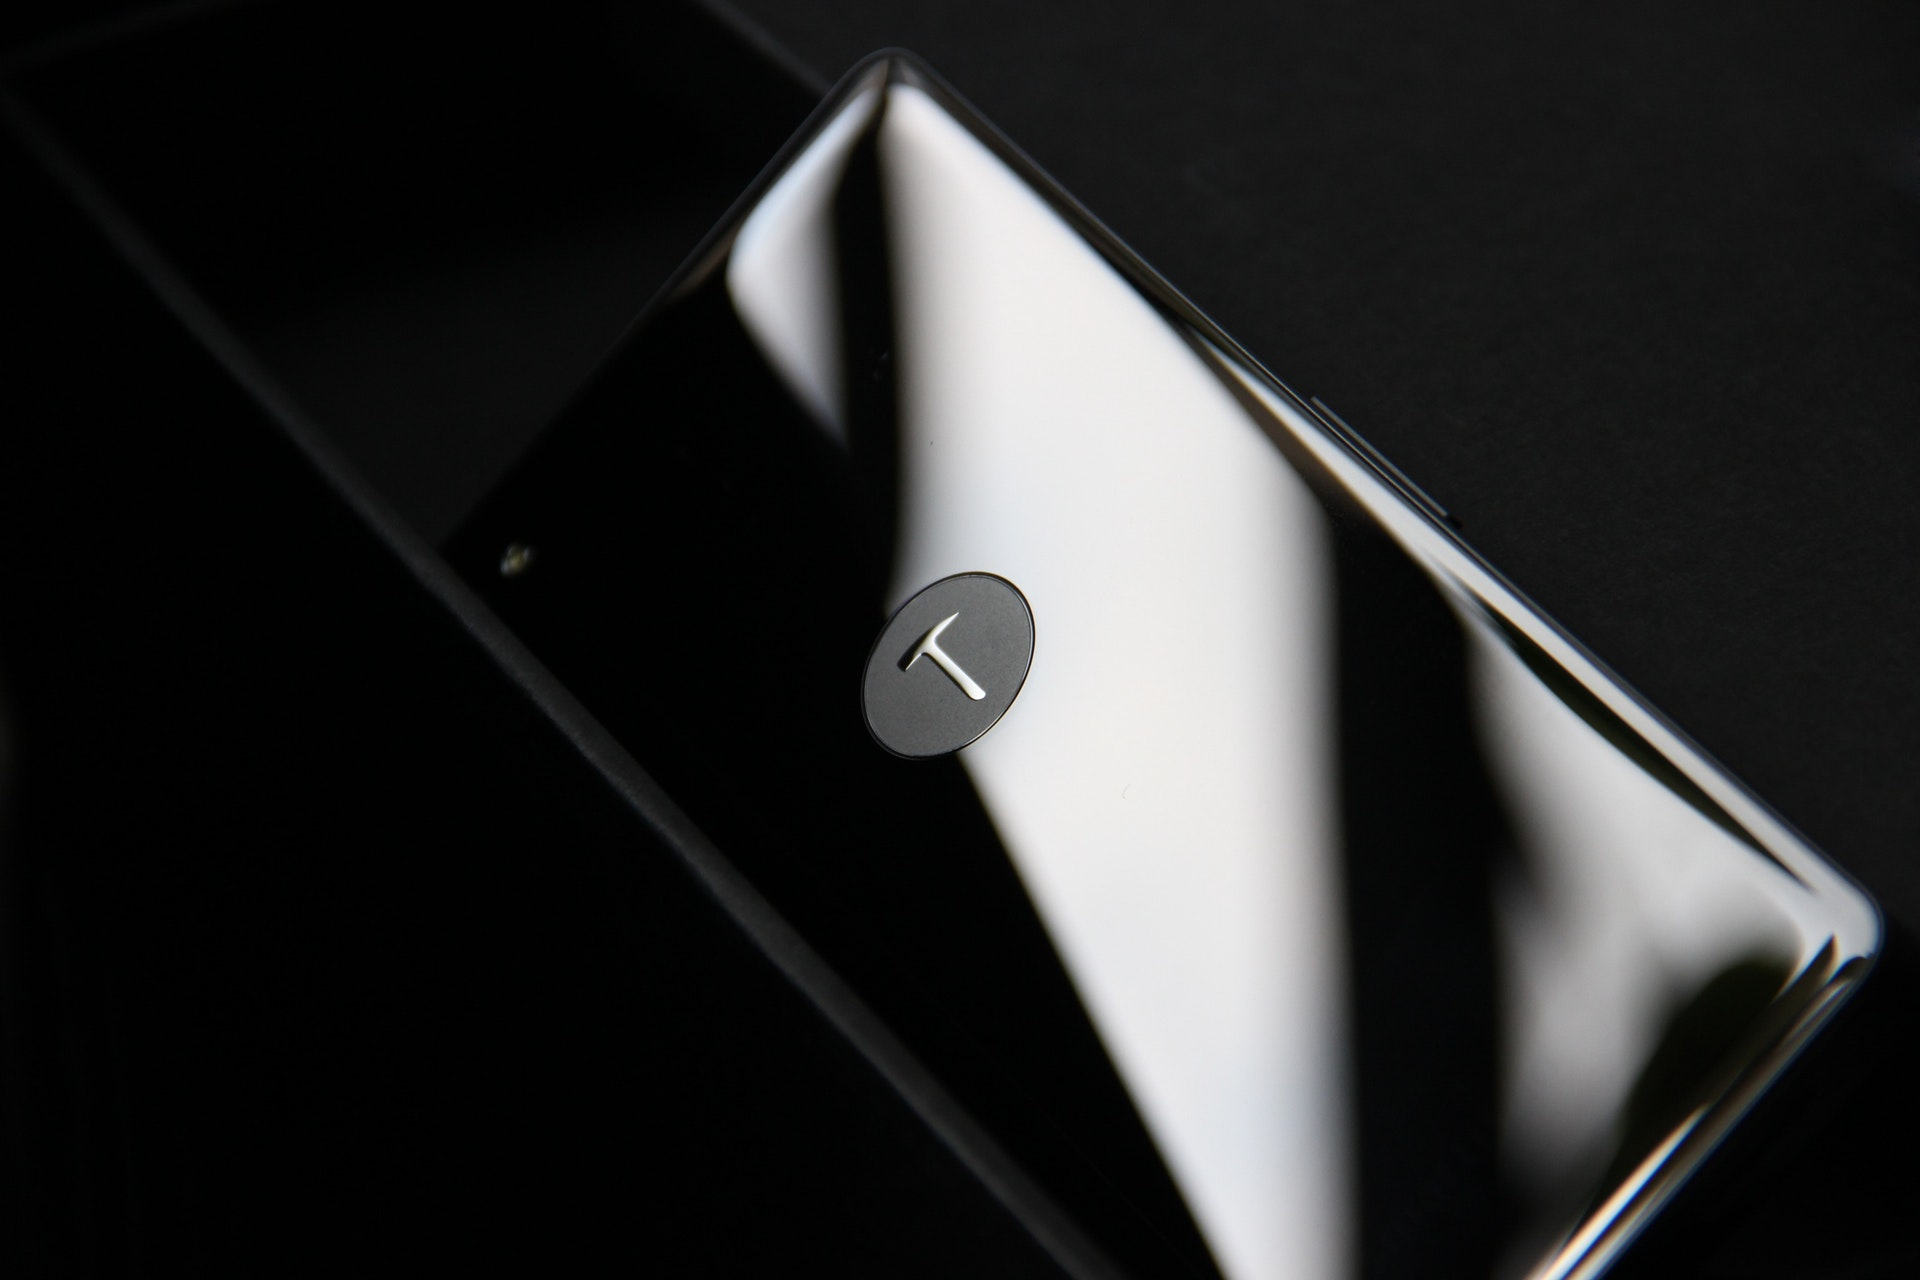
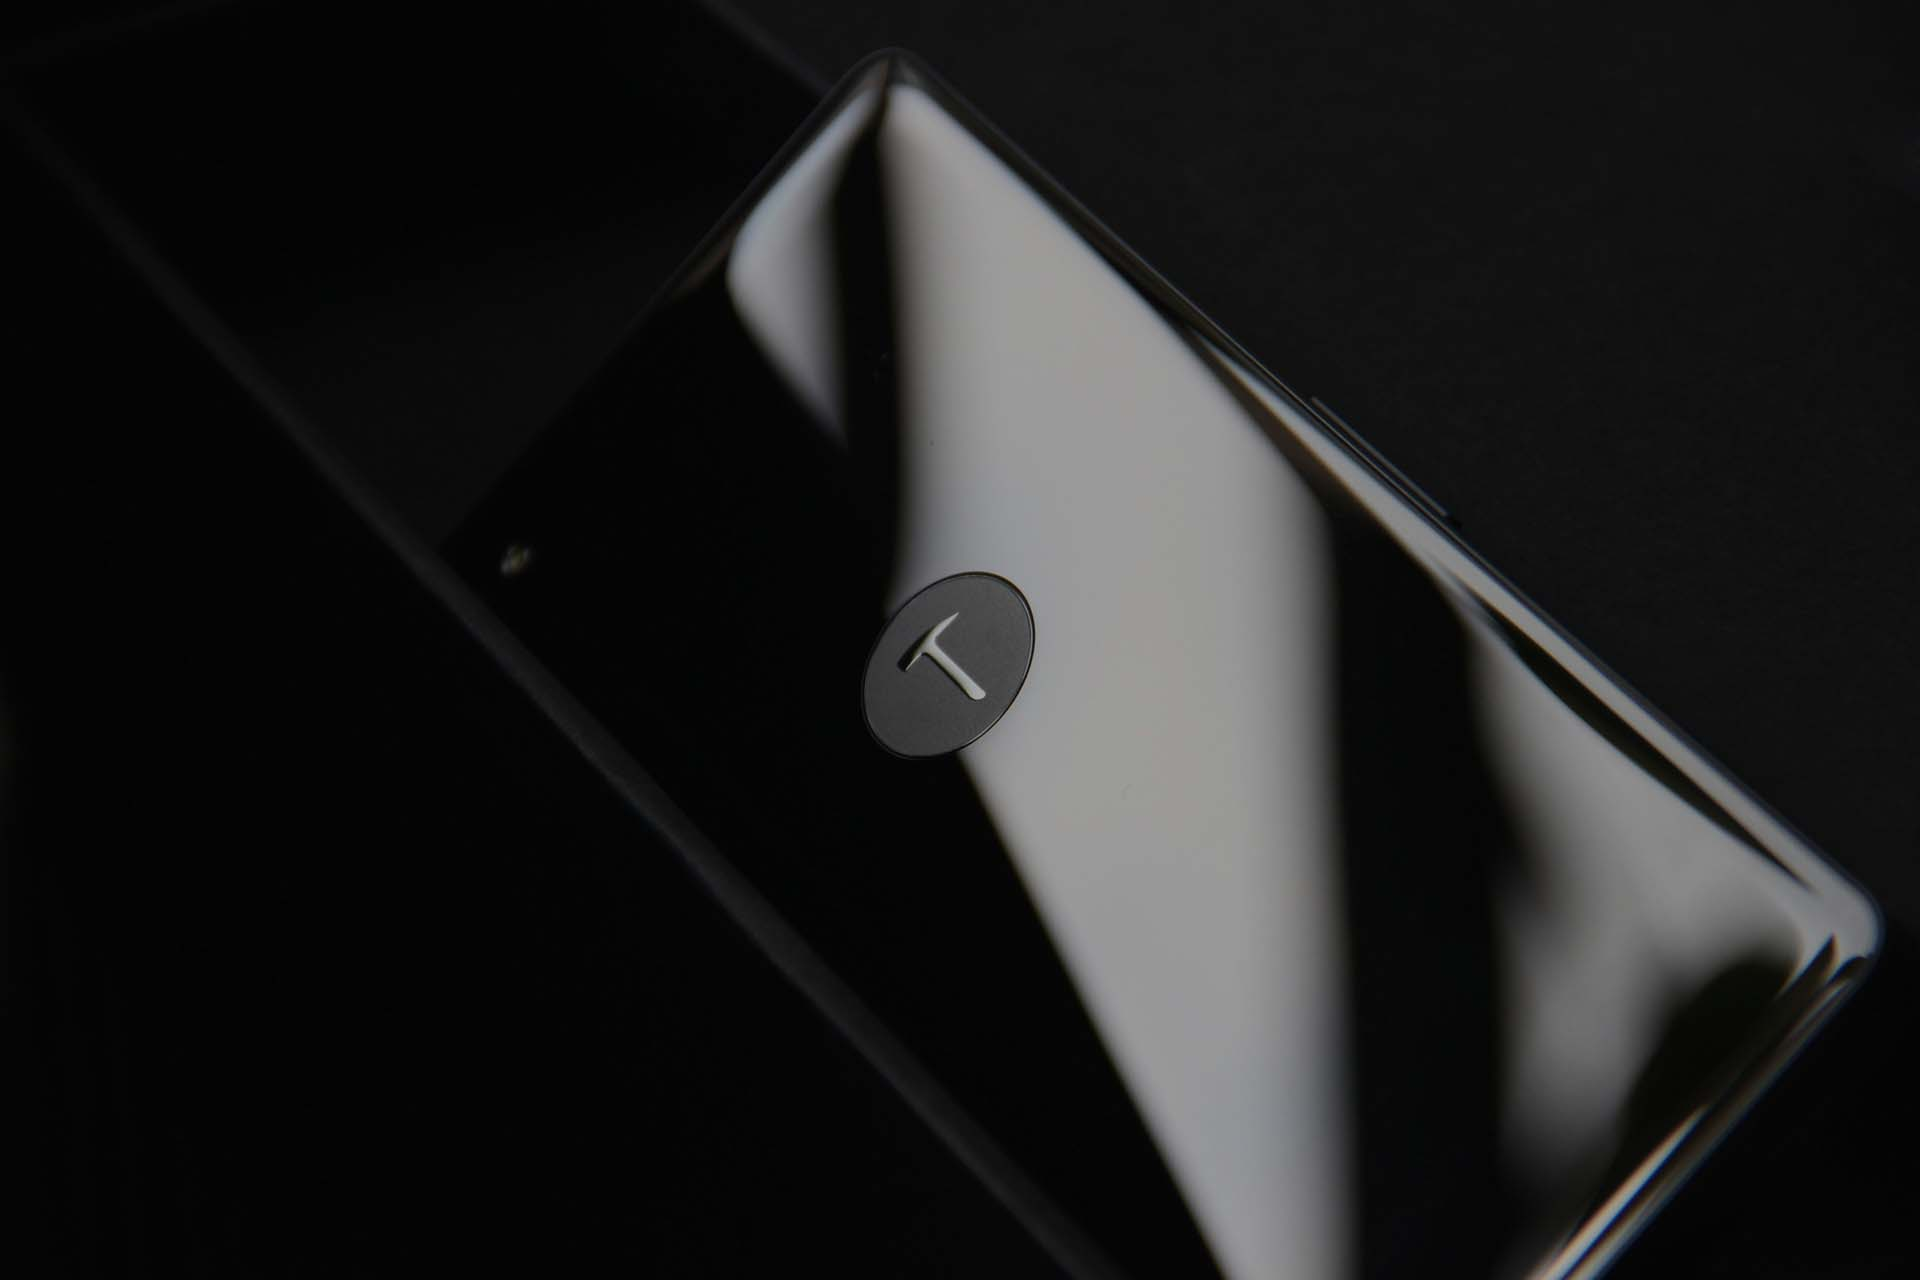
uxwriting finish index, edit blog quotes, shorten contact subheader, darken hero image3

Changed region(s): [[0.375, 0.0625, 1.0, 1.0]]

diff --git a/blog.html b/blog.html
@@ -64,7 +64,7 @@
               <img src="https://source.unsplash.com/random/300x200?technology" alt="" class="img-fluid card-img-top">
               <div class="card-body">
                 <h4 class="card-title">Blog Post One</h4>
-                <small class="text-muted">Written by Jeff on 05/05/19</small>
+                <small class="text-muted">Written by Jeff on 10/02/20</small>
                 <hr>
                 <p class="card-text">Lorem ipsum dolor, sit amet consectetur adipisicing elit. Quae natus voluptas a
                   accusamus corporis odio ea, minima voluptate amet repellat ad voluptates fugit voluptatem laboriosam
@@ -77,7 +77,7 @@
               <img src="https://source.unsplash.com/random/300x201?technology" alt="" class="img-fluid card-img-top">
               <div class="card-body">
                 <h4 class="card-title">Blog Post Two</h4>
-                <small class="text-muted">Written by Peter on 23/04/19</small>
+                <small class="text-muted">Written by Peter on 23/01/20</small>
                 <hr>
                 <p class="card-text">Lorem ipsum dolor sit amet, consectetur adipisicing elit. Doloremque corrupti ab
                   eos deleniti rem, odit minima beatae ducimus nesciunt expedita alias deserunt possimus magni similique
@@ -89,7 +89,7 @@
               <img src="https://source.unsplash.com/random/300x202?technology" alt="" class="img-fluid card-img-top">
               <div class="card-body">
                 <h4 class="card-title">Blog Post Three</h4>
-                <small class="text-muted">Written by Harry on 08/03/19</small>
+                <small class="text-muted">Written by Harry on 08/12/19</small>
                 <hr>
                 <p class="card-text">Lorem, ipsum dolor sit amet consectetur adipisicing elit. Unde reprehenderit
                   repellendus vel blanditiis corporis iusto, hic eum maiores necessitatibus placeat atque praesentium
@@ -100,30 +100,28 @@
           </div>
           <div class="card-deck mb-3">
 
-            <div class="card pt-3">
+            <div class="card pt-3 bg-light">
               <blockquote class="card-blockquote card-body">
-                <p>Lorem, ipsum dolor sit amet consectetur adipisicing elit. Deleniti, earum.</p>
+                <p>Technical skill is mastery of complexity, while creativity is mastery of simplicity.</p>
                 <footer class="blockquote-footer">
-                  <small class="text-muted">Someone Famous in <cite title="Source Title">Source Title</cite></small>
+                  <small class="text-muted">Christopher Zeeman</small>
                 </footer>
               </blockquote>
             </div>
 
             <div class="card pt-3 bg-danger text-white">
               <blockquote class="card-blockquote card-body">
-                <p>Lorem ipsum dolor sit amet consectetur adipisicing elit. Soluta reprehenderit fuga iusto, facere
-                  nihil alias.</p>
+                <p>It's still magic even if you know how it's done.</p>
                 <footer class="blockquote-footer text-white">
-                  <small>Someone Famous in <cite title="Source Title">Source Title</cite></small>
+                  <small>Terry Pratchett <cite title="Discworld">Author of Discworld</cite></small>
                 </footer>
               </blockquote>
             </div>
-            <div class="card pt-3">
+            <div class="card pt-3 bg-dark text-light">
               <blockquote class="card-blockquote card-body">
-                <p>Lorem, ipsum dolor sit amet consectetur adipisicing elit. Animi, distinctio ipsum quidem magni
-                  ducimus ratione.</p>
+                <p>It has become appallingly obvious that our technology has exceeded our humanity.</p>
                 <footer class="blockquote-footer">
-                  <small class="text-muted">Someone Famous in <cite title="Source Title">Source Title</cite></small>
+                  <small class="text-muted text-light">Albert Einstein</small>
                 </footer>
               </blockquote>
             </div>
@@ -134,27 +132,23 @@
             <div class="card">
               <img src="https://source.unsplash.com/random/300x203?technology" alt="" class="img-fluid card-img-top">
               <div class="card-body">
-                <h4 class="card-title">Blog Post Three</h4>
-                <small class="text-muted">Written by Harry on 08/03/19</small>
+                <h4 class="card-title">Blog Post Four</h4>
+                <small class="text-muted">Written by Stefan on 15/11/19</small>
                 <hr>
                 <p class="card-text">Lorem, ipsum dolor sit amet consectetur adipisicing elit. Unde
-                  reprehenderit
-                  repellendus vel blanditiis corporis iusto, hic eum maiores necessitatibus placeat atque
-                  praesentium
-                  nobis cupiditate tempora, asperiores accusantium suscipit! </p>
+                  reprehenderit repellendus vel blanditiis corporis iusto, hic eum maiores necessitatibus placeat atque
+                  praesentium nobis cupiditate tempora, asperiores accusantium suscipit! </p>
               </div>
             </div>
 
             <div class="card">
               <img src="https://source.unsplash.com/random/300x204?technology" alt="" class="img-fluid card-img-top">
               <div class="card-body">
-                <h4 class="card-title">Blog Post Three</h4>
-                <small class="text-muted">Written by Harry on 08/03/19</small>
+                <h4 class="card-title">Blog Post Five</h4>
+                <small class="text-muted">Written by Maya on 04/10/19</small>
                 <hr>
-                <p class="card-text">Lorem, ipsum dolor sit amet consectetur adipisicing elit. Unde
-                  reprehenderit
-                  repellendus vel blanditiis corporis iusto, hic eum maiores necessitatibus placeat atque
-                  praesentium
+                <p class="card-text">Lorem, ipsum dolor sit amet consectetur adipisicing elit. Unde reprehenderit
+                  repellendus vel blanditiis corporis iusto, hic eum maiores necessitatibus placeat atque praesentium
                   nobis cupiditate tempora, asperiores accusantium suscipit! </p>
               </div>
             </div>
@@ -162,13 +156,11 @@
             <div class="card">
               <img src="https://source.unsplash.com/random/300x205?technology" alt="" class="img-fluid card-img-top">
               <div class="card-body">
-                <h4 class="card-title">Blog Post Three</h4>
-                <small class="text-muted">Written by Harry on 08/03/19</small>
+                <h4 class="card-title">Blog Post Six</h4>
+                <small class="text-muted">Written by Samantha on 22/09/19</small>
                 <hr>
-                <p class="card-text">Lorem, ipsum dolor sit amet consectetur adipisicing elit. Unde
-                  reprehenderit
-                  repellendus vel blanditiis corporis iusto, hic eum maiores necessitatibus placeat atque
-                  praesentium
+                <p class="card-text">Lorem, ipsum dolor sit amet consectetur adipisicing elit. Unde reprehenderit
+                  repellendus vel blanditiis corporis iusto, hic eum maiores necessitatibus placeat atque praesentium
                   nobis cupiditate tempora, asperiores accusantium suscipit! </p>
               </div>
             </div>

diff --git a/index.html b/index.html
@@ -56,12 +56,12 @@
         <div class="carousel-item carousel-image-1 active">
           <div class="container">
             <div class="carousel-caption d-none d-sm-block text-right mb-5">
-              <h1 class="display-3">Welcome the new generation</h1>
+              <h1 class="display-3">Welcome to Tractical</h1>
               <p class="lead">
                 Meet the newest standards of user centered design and implementations, exceptional service and
-                consultancy whenever you are in need.
+                software.
               </p>
-              <a href="/services.html" class="btn btn-danger btn-lg">Sign Up Now</a>
+              <a href="/services.html" class="btn btn-primary btn-lg">Sign Up Now</a>
             </div>
           </div>
         </div>
@@ -71,10 +71,10 @@
             <div class="carousel-caption d-none d-sm-block mb-5">
               <h1 class="display-3">Instant service</h1>
               <p class="lead">
-                Enjoy instant service, amet consectetur adipisicing elit. Accusantium, illo corrupti ipsum
-                facilis modi ullam. Laborum tempore pariatur ut perferendis?
+                We offer experienced software consultancy and individual customised solutions. Find out more about
+                services!
               </p>
-              <a href="/about.html" class="btn btn-primary btn-lg">Learn More</a>
+              <a href="/about.html" class="btn btn-danger btn-lg">Learn More</a>
             </div>
           </div>
         </div>
@@ -84,8 +84,7 @@
             <div class="carousel-caption d-none d-sm-block text-left mb-5">
               <h1 class="display-3">Lightness</h1>
               <p class="lead">
-                Lorem ipsum dolor sit, amet consectetur adipisicing elit. Accusantium, illo corrupti ipsum
-                facilis modi ullam. Laborum tempore pariatur ut perferendis?
+                Read on our latest blog how we solve sustainability issues with lightness.
               </p>
               <a href="/blog.html" class="btn btn-success btn-lg">Learn More</a>
             </div>
@@ -128,9 +127,7 @@
           <div class="col-12">
             <h1>Are you ready to get started?</h1>
             <p class="d-none d-md-block">
-              Lorem ipsum dolor sit amet consectetur adipisicing elit. Eaque qui maiores
-              repellat reprehenderit animi ex ea ratione itaque repellendus quaerat. It
-              amet consectetur adipisicing elit.
+              We supply software solutions, consultancy services and hardware resolutions.
             </p>
           </div>
         </div>
@@ -144,8 +141,9 @@
       <div class="row">
         <div class="col-md-6 align-self-center">
           <h3>Excellence strikes first</h3>
-          <p>Lorem ipsum dolor sit amet consectetur adipisicing elit. Esse impedit eaque id consequatur error dolore
-            ullam voluptates rerum voluptatum voluptatibus?
+          <p>Our software provides useful functionalities to organize all your customer needs. We ensure a
+            flawless progress at best stakes. In combination with our consultant services we offer an
+            excellent experience for B2B demands.
           </p>
           <a href="about.html" class="btn btn-outline-danger btn-lg">Learn More</a>
         </div>
@@ -285,9 +283,8 @@
         <div class="col">
           <h1 class="mb-3">Sign Up For Our Newsletter</h1>
           <p>
-            Be always informed about the newest trends. Sign up right here to never miss again any of our special
-            service offers. We will never exploit or give the entered email to any third party. You can always decide
-            otherwise, no hard feelings!
+            Sign up here to stay informed about latest trends and our special
+            offers. We will never share your email for third party use.
           </p>
           <form action="" class="form-inline justify-content-center">
             <input type="text" class="form-control mb-2 mr-2" placeholder="Enter Name">

diff --git a/contact.html b/contact.html
@@ -49,8 +49,8 @@
         <div class="col-md-10 m-auto text-center">
           <h1>Contact Us</h1>
           <p>
-            We always attempt to improve our products and we are happy to hear from you. Leave a note, ask any
-            question, get help, or give feedback.
+            We attempt to improve our products unceasingly. We are happy if you get help, ask questions
+            or give feedback.
           </p>
         </div>
       </div>
